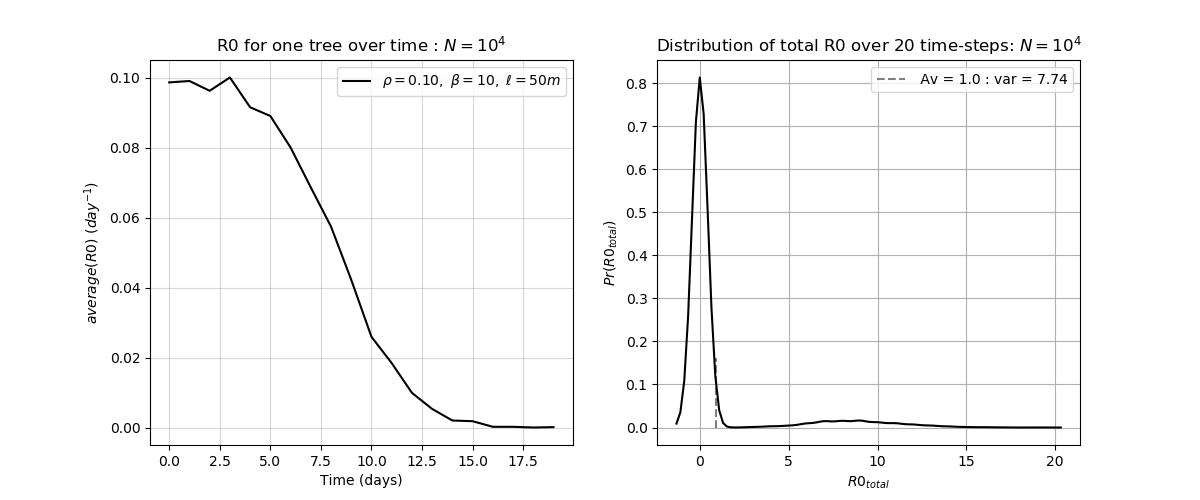
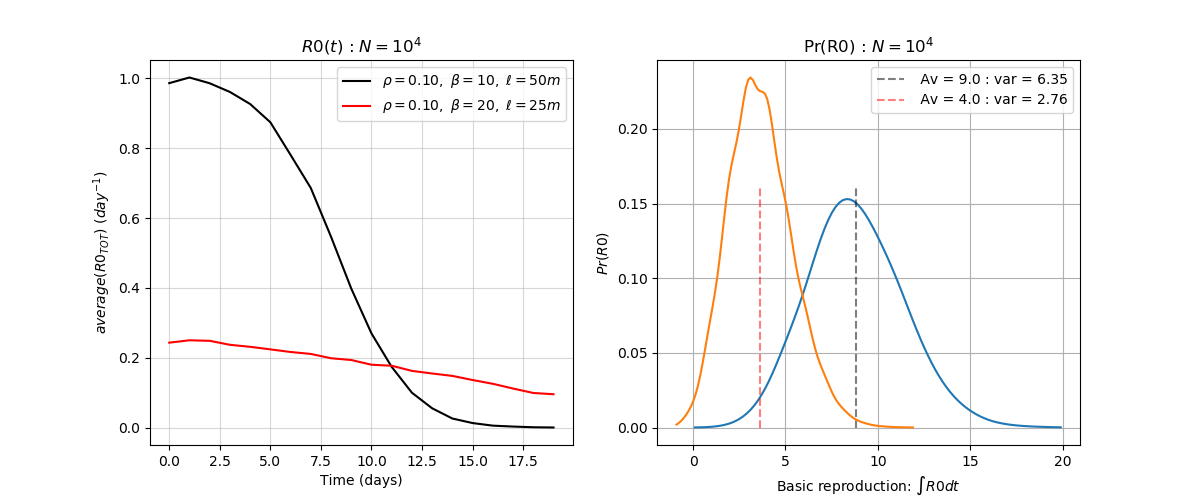
na

diff --git a/latex/figure_gen.py b/latex/figure_gen.py
@@ -6,7 +6,6 @@ from mpl_toolkits.axes_grid1.inset_locator import mark_inset
 import numpy as np
 import os, sys
 
-
 """
 This script plots and saves all the figures used in the tex file. Simply call the associated function.
 """
@@ -19,17 +18,17 @@ def en_combine(sim_names, out_name):
     :return: none, however, write to disk outputs
     """
     path = os.getcwd() + "/latex/latex_data/R0_data/multi_steps/"
-    dim = np.load(path+sim_names[0]+'.npy').shape
+    dim = np.load(path + sim_names[0] + '.npy').shape
     dat = np.zeros(dim)
-    print(np.load(path+sim_names[0]+'.npy').shape)
+    print(np.load(path + sim_names[0] + '.npy').shape)
     i = 0
     for name in sim_names[1:]:
-        en = np.load(path+name+'.npy')
-        en_Av = en.sum(axis=0)/en.shape[0]
+        en = np.load(path + name + '.npy')
+        en_Av = en.sum(axis=0) / en.shape[0]
         dat = dat + en_Av
 
-    dat = dat/(i+1)
-    np.save('COMBINED-'+out_name, dat)
+    dat = dat / (i + 1)
+    np.save('COMBINED-' + out_name, dat)
 
 
 def uk_vel_diff_map():
@@ -86,11 +85,11 @@ def subgird():
     import matplotlib.colors as colors
 
     cmap = colors.ListedColormap([(.5, .5, .5, .25), 'green', 'red', 'blue'])
-    bounds = [0, 1, 2, 3,4]
+    bounds = [0, 1, 2, 3, 4]
     norm = colors.BoundaryNorm(bounds, cmap.N, clip=True)
-    R_1 = R_1.astype(float)*3
-    R_2 = R_2.astype(float)*3
-    I_1 = np.where(I_1 > 0, 2,0)
+    R_1 = R_1.astype(float) * 3
+    R_2 = R_2.astype(float) * 3
+    I_1 = np.where(I_1 > 0, 2, 0)
     I_2 = np.where(I_2 > 0, 2, 0)
     fig, [ax1, ax2] = plt.subplots(nrows=2, figsize=(10, 10))
 
@@ -103,7 +102,7 @@ def subgird():
 
     fig.subplots_adjust(right=0.8)
     cbar_ax = fig.add_axes([0.68, 0.1, 0.03, 0.8])
-    cbar = fig.colorbar(im, cax=cbar_ax,ticks=[0, 1, 2, 3])
+    cbar = fig.colorbar(im, cax=cbar_ax, ticks=[0, 1, 2, 3])
     cbar.set_ticklabels([r'$\emptyset$', 'S (tree)', 'I', 'R (dead)'])
 
     cbar.set_ticks(bounds)
@@ -130,7 +129,7 @@ def PDE_UK_sims():
     Plot simulations of PDE model over the UK based on diffusion coefficients generated in phase-space
     :return:
     """
-    data = "?" # Find data
+    data = "?"  # Find data
     dir = os.listdir(os.getcwd() + '/latex_data')
     names = []
     for file in dir:
@@ -158,7 +157,6 @@ def PDE_UK_sims():
         ax.set_xticklabels([])
         ax.set_yticklabels([])
         ax.set_title(r'Year : ' + years[i])
-
 
     plt.savefig('FKPP-10yr-immingham-L-50-b-02', bbox_inches='tight')
     plt.show()
@@ -204,7 +202,7 @@ def dispersal_factor_2d():
     arr = np.zeros(shape=[size, size])
     arr[infected] = 1
     for sigma in sigmas:
-        pre_factor = 2 * np.pi * sigma**2
+        pre_factor = 2 * np.pi * sigma ** 2
         blurred = pre_factor * gaussian_filter(arr, sigma=sigma)
         im = plt.imshow(blurred)
         plt.colorbar(im)
@@ -224,12 +222,12 @@ def transition_prs(sigma, betas, rho, x1, x2, double):
     """
     fig, ax = plt.subplots()
     for beta in betas:
-        g_xy_1 = np.exp(-1 * np.square(x1)/(2 * sigma ** 2))
+        g_xy_1 = np.exp(-1 * np.square(x1) / (2 * sigma ** 2))
         p_infected_1 = beta * rho * g_xy_1
         ax.plot(x1, p_infected_1, label=r'$\beta = $' + str(beta), alpha=0.25)
         ax.scatter(x1, p_infected_1, s=0.75, marker='x')
         if double:
-            g_xy_2 = np.exp(-1 * np.square(x2)/(2 * sigma ** 2))
+            g_xy_2 = np.exp(-1 * np.square(x2) / (2 * sigma ** 2))
             p_infected_2 = beta * rho * g_xy_2
             ax.plot(x1, p_infected_2, label='x=2 infected', alpha=0.25)
             ax.scatter(x1, p_infected_2, s=0.75, marker='x')
@@ -278,7 +276,6 @@ def phase_space_beta():
     ax[0, 0].set_xticklabels([])
     ax[0, 1].set_xticklabels([])
 
-
     plt.savefig('beta-phase-space', bbox_to_inches='tight')
     plt.show()
 
@@ -288,18 +285,18 @@ def secondary_inf():
     plot the number of secondary cases per time step
     :return:
     """
-    comp_r0 = np.load(os.getcwd()+'/latex/latex_data/R0-LT_L_10_r_010_b_0-10_en_10000.npy')
+    comp_r0 = np.load(os.getcwd() + '/latex/latex_data/R0-LT_L_10_r_010_b_0-10_en_10000.npy')
     sigmas = np.arange(0, 15, 1)
     betas = np.linspace(0, 1, 10)
     analytic_r0 = np.zeros(len(sigmas))
     beta, rho = 0.1, 0.1
     for sigma in sigmas:
-        r0 = beta * rho * 2 * np.pi * sigma**2
+        r0 = beta * rho * 2 * np.pi * sigma ** 2
         analytic_r0[sigma] = r0
     fig, ax = plt.subplots()
     ax.plot(betas, comp_r0, alpha=0.75, label='computational')
-    #ax.plot(sigmas, analytic_r0, alpha=0.8, color='r', linewidth=0.45)
-    #ax.scatter(sigmas, analytic_r0, color='r', marker='x', alpha=0.75, label='analytic')
+    # ax.plot(sigmas, analytic_r0, alpha=0.8, color='r', linewidth=0.45)
+    # ax.scatter(sigmas, analytic_r0, color='r', marker='x', alpha=0.75, label='analytic')
     ax.set_xlabel(r'Dispersal kernel ($\ell$)')
     ax.set_title(r'$R_0$ from $T=0 \rightarrow\ T=1$, ($10^2$ repeats)')
     ax.set_ylabel(r'$R_0\ time^{-1}$')
@@ -310,8 +307,10 @@ def secondary_inf():
 
 
 def vel_t_series():
-    correct_names = ['max_d_b_0-25_r_0-1_L_2-0-correct.npy', 'max_d_b_0-25_r_0-1_L_2-5-correct.npy', 'max_d_b_0-25_r_0-1_L_3-0-correct.npy']
-    incorrect_names = ['max_d_b_0-25_r_0-1_L_2-0-incorrect.npy', 'max_d_b_0-25_r_0-1_L_2-5-incorrect.npy', 'max_d_b_0-25_r_0-1_L_3-0-incorrect.npy']
+    correct_names = ['max_d_b_0-25_r_0-1_L_2-0-correct.npy', 'max_d_b_0-25_r_0-1_L_2-5-correct.npy',
+                     'max_d_b_0-25_r_0-1_L_3-0-correct.npy']
+    incorrect_names = ['max_d_b_0-25_r_0-1_L_2-0-incorrect.npy', 'max_d_b_0-25_r_0-1_L_2-5-incorrect.npy',
+                       'max_d_b_0-25_r_0-1_L_3-0-incorrect.npy']
     beta = 0
     ell = 1
     if beta:
@@ -344,7 +343,7 @@ def vel_t_series():
         v_correct = np.gradient(correct_data)
         v_wrong = np.gradient(incorrect_data)
         ax.plot(v_correct, alpha=0.5, c=color[i], linestyle='--', label=r'$\beta$ = ' + str(labels[i]) + ' (corrected)')
-        #ax.plot(v_wrong, alpha=0.5, c=color[i], linestyle='-', label=r'$\beta$ = ' + str(labels[i]) + ' (wrong)')
+        # ax.plot(v_wrong, alpha=0.5, c=color[i], linestyle='-', label=r'$\beta$ = ' + str(labels[i]) + ' (wrong)')
         ax.axhline(y=np.average(v_correct), c=color[i])
 
     ax.set_title(r'Time series velocity')
@@ -399,7 +398,6 @@ def phase_space_gen_4X():
             ax[i].set_aspect('auto')
             cbar.set_label(r"($km^2 day^{-1}$)")
 
-
     ax[1].set_xlabel(r'$\rho$')
     plt.savefig('dfff_x2' + metric, bbox_to_inches='tight')
     plt.show()
@@ -430,7 +428,6 @@ def phase_line():
     plt.show()
 
 
-
 def domain_size_calibrations():
     import matplotlib.pyplot as plt
     fig, ax = plt.subplots(figsize=(7.5, 5.5))
@@ -446,7 +443,7 @@ def domain_size_calibrations():
         data_arr = np.zeros(len(files))
         var_arr = np.zeros(len(files))
         for i, file in enumerate(sorted(files)):
-            data = np.load(path+file) * 365
+            data = np.load(path + file) * 365
             data_arr[i] = data.mean()
             var_arr[i] = data.std()
 
@@ -476,7 +473,7 @@ def R0_phase():
     This shows a re-interpreted beta value vs rho, the phase space of R_0 FOR one infected tree at the origin/
     """
     extent = [1., 10., 0, 1.0]
-    data = np.load(os.getcwd()+'/latex/latex_data/R0_data/' + 'b-v-r-R0-en-1000-L-300m.npy')
+    data = np.load(os.getcwd() + '/latex/latex_data/R0_data/' + 'b-v-r-R0-en-1000-L-300m.npy')
     fig, ax = plt.subplots()
     im = ax.contourf(data.T, origin='lower', cmap=plt.get_cmap('jet'), extent=extent)
     cbar = plt.colorbar(im)
@@ -493,7 +490,7 @@ def time_series_metric():
     "Plot metric evolution in time"
     path = os.getcwd() + '/latex/latex_data/time-series-data/'
     name = 'L-200en_sz-10-test-max-distance.npy'
-    data = np.load(path+name)
+    data = np.load(path + name)
     fig, ax = plt.subplots(figsize=(15, 6), ncols=2, nrows=1)
     # Axis 0
     ax[0].set_title(r'Maximum distance curve: $\rho = 0.05,\ \beta = 5,\ \ell=25m$')
@@ -511,7 +508,7 @@ def time_series_metric():
     for i, t_series in enumerate(data[::2]):
         index = np.where(np.gradient(t_series) < 0)[0][0]
         label1 = r'$d = {} (m),\ t_f = {} (day),\ v = {} m/day$'.format(index, int(t_series[index]),
-                                                                        round(t_series[index]/index))
+                                                                        round(t_series[index] / index))
         ax[0].plot(t_series[:index], color=color[i], alpha=0.4, label=label1)
         index = index - 1
         ax[0].plot([index, index], [0, t_series[index]], color=color[i], alpha=0.3, ls='--')
@@ -523,7 +520,6 @@ def time_series_metric():
         ax[1].plot(np.gradient(t_series[:index]), color=color[i], alpha=0.25)
         ax[1].scatter(range(index), np.gradient(t_series[:index]), color=color[i], alpha=0.4)
         ax[1].plot([0, index], [av_V, av_V], label=label2, color=color[i], alpha=0.50)
-
 
     ax[0].legend()
     ax[1].legend()
@@ -538,19 +534,19 @@ def R0_line():
     beta = 20
     rho = 0.25, 0.50, 1.0
     """
-    path = os.getcwd()+'/latex/latex_data/R0_data/'
-    data_1 = np.load(path + 'r-025-b-20-a-005-en-100.npy')     # rho = 0.5
+    path = os.getcwd() + '/latex/latex_data/R0_data/'
+    data_1 = np.load(path + 'r-025-b-20-a-005-en-100.npy')  # rho = 0.5
     data_2 = np.load(path + 'r-050-b-20-a-005-en-100.npy')
     data_3 = np.load(path + 'r-1-b-20-a-005-en-100.npy')
     labels = ['0.25', '0.50', '1.00']
     data = [data_1, data_2, data_3]
 
-    dispersals = np.array([1, 2, 3, 4, 5, 10, 50, 100, 150, 200, 250, 300]) * 0.001/0.005
+    dispersals = np.array([1, 2, 3, 4, 5, 10, 50, 100, 150, 200, 250, 300]) * 0.001 / 0.005
     fig, ax = plt.subplots(figsize=(7.5, 5))
-    c=0
+    c = 0
     for dset in data:
         plt.errorbar(x=dispersals, y=dset[:, 0], yerr=dset[:, 1], alpha=0.5)
-        plt.scatter(x=dispersals, y=dset[:, 0], s=dset[:, 0]+0.1, label=r'$\rho = $' + labels[c])
+        plt.scatter(x=dispersals, y=dset[:, 0], s=dset[:, 0] + 0.1, label=r'$\rho = $' + labels[c])
         c += 1
     ax.set_title(r'$\beta = 20,\ L=200,\ \alpha = 0.005$')
     ax.set_xlabel(r'effective dispersal $\tilde{\ell}$', size=15)
@@ -566,7 +562,7 @@ def R0_multi_steps():
     1. This plots R0 over a set number of time-steps showing R0(t)
     2. Also the offspring distribution Pr(R0_tot)
     """
-    dir_names = ['en_2_22-07-19']
+    dir_names = ['en_1', 'L_200_en_2']
     colors = ['black', 'red']
     path = os.getcwd() + '/latex/latex_data/R0_data/multi_steps/'
     fig, ax = plt.subplots(ncols=2, figsize=(12, 5))
@@ -579,30 +575,35 @@ def R0_multi_steps():
         j = 0
         for file in sorted(en_list):
             en_100 = np.load(path + dir + '/' + file)
-            av = en_100.sum(axis=0)/100
+            av = en_100.sum(axis=0) / 100
             en_all = en_all + av
             for sim in en_100:
                 R0_dist[j] = sim.sum()
                 j += 1
 
-        en_out = en_all/100
+        en_out = en_all / 100
         time = np.arange(0, 20, 1)
         ax[0].plot(time, en_out, color=colors[i], label=label[i])
         ax[0].grid(alpha=0.5)
         ax[0].set_xlabel('Time (days)')
-        ax[0].set_ylabel(r'$average(R0)$ ($day^{-1}$)')
-        ax[0].set_title(r'R0 for one tree over time : $N=10^4$')
+        ax[0].set_ylabel(r'$average(R0_{TOT})$ ($day^{-1}$)')
+        ax[0].set_title(r'$R0(t)$ : $N=10^4$')
         ax[0].legend()
-        sns.distplot(R0_dist, bins=100, kde=True, hist=False, ax=ax[1], color=colors[i]);
+        #  sns.distplot(R0_dist, bins=100, kde=True, hist=False, ax=ax[1], color=colors[i])
+        sns.kdeplot(R0_dist, bw=0.3, ax=ax[1])
+        # sns.kdeplot(R0_dist, shade=True, ax=ax[1])
+        print('hello')
+        # ax[1].hist(R0_dist, bins=200, color=colors[i])
         ax[1].grid(True)
-        ax[1].set_title('Distribution of total R0 over 20 time-steps: $N=10^4$')
-        ax[1].set_xlabel(r"$R0_{}$".format('{total}'))
-        ax[1].set_ylabel(r"$Pr(R0_{})$".format('{total}'))
+        ax[1].set_title('Pr(R0) : $N=10^4$')
+        ax[1].set_xlabel(r"Basic reproduction: $\int R0 dt$")
+        ax[1].set_ylabel(r"$Pr(R0)$")
         dist_label = ' Av = ' + str(round(R0_dist.mean())) + ' : var = ' + str(round(R0_dist.var(), 2))
         ax[1].plot([R0_dist.mean(), R0_dist.mean()], [0, 0.162], alpha=0.5, ls='--', label=dist_label, color=colors[i])
         ax[1].legend()
 
     plt.savefig('off_spring_dist')
     plt.show()
+
 
 R0_multi_steps()
